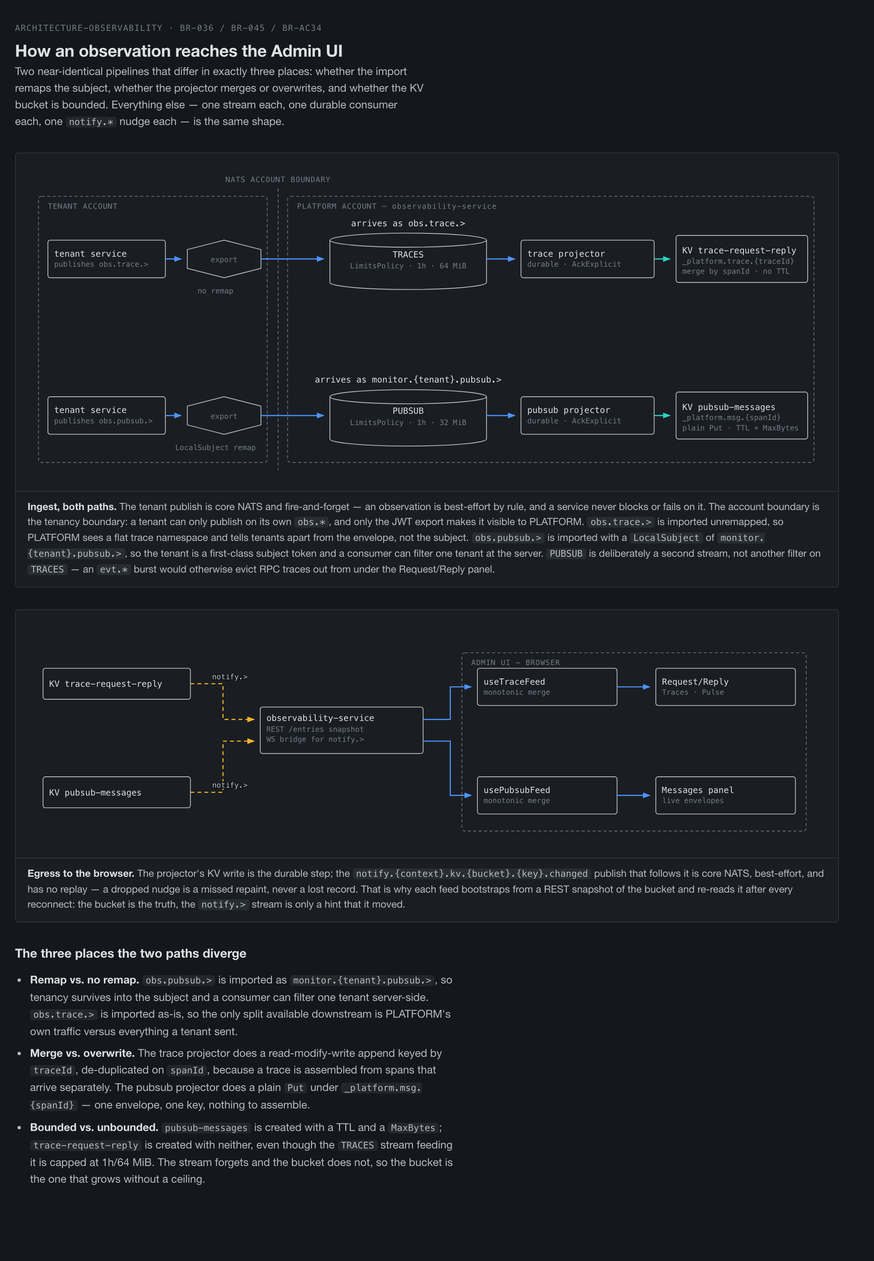
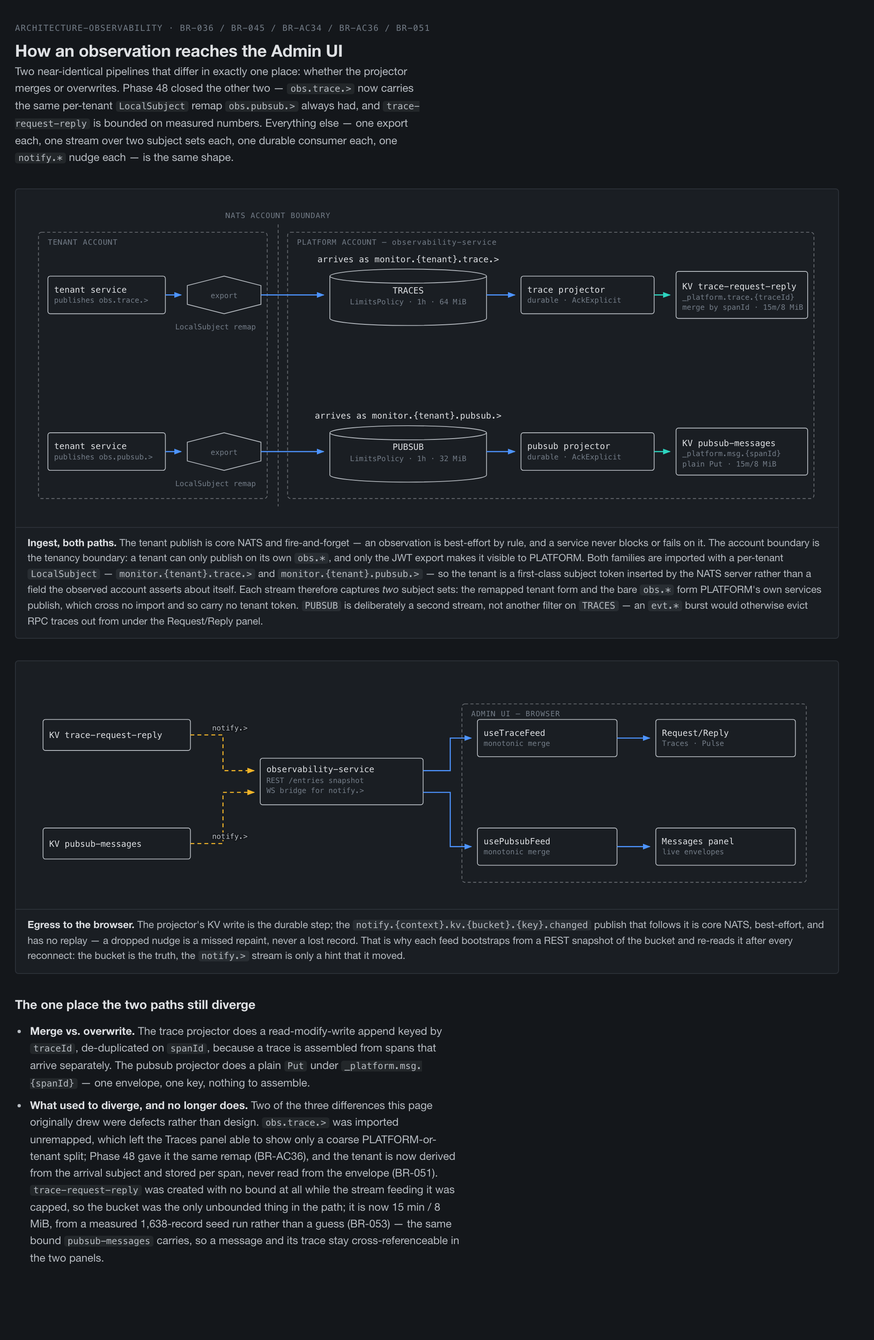
docs(48e): close A1's deferred trace remap and redraw the message path
The observability docs still described the pre-Phase-48 world: obs.trace.>
imported unremapped, provenance recovered from the envelope, and
trace-request-reply unbounded. All three are now false.

- ARCHITECTURE-OBSERVABILITY.md: A1's "deliberately not in scope" becomes
  a resolution note, recording the three things the implementation settled
  that the ADR did not anticipate — per-span attribution (and why BR-052
  was retired), boot-time convergence over a one-off re-provision pass, and
  why a shipped pipeline needed no migration.
- ARCHITECTURE-COMMUNICATIONS.md §6: notes on subject-derived per-span
  attribution, on each stream capturing two subject sets, and on both KV
  buckets being bounded at 15 min / 8 MiB.
- observability-message-path: two of the three drawn divergences are gone;
  both rows share the remap and the bound, leaving merge-vs-overwrite as
  the only real difference. The retired pair is kept as a "what used to
  diverge" bullet rather than deleted.

Also puts two present-tense "has no remap" sentences in the business rules
into the past tense.

diff --git a/demos/01-dictionary/diagrams/observability-message-path.html b/demos/01-dictionary/diagrams/observability-message-path.html
@@ -53,16 +53,16 @@ li b { color: var(--text); font-weight: 600; }
 <div class="wrap">
   <div class="head">
     <div class="head-txt">
-      <span class="eyebrow">ARCHITECTURE-OBSERVABILITY · BR-036 / BR-045 / BR-AC34</span>
+      <span class="eyebrow">ARCHITECTURE-OBSERVABILITY · BR-036 / BR-045 / BR-AC34 / BR-AC36 / BR-051</span>
       <h1>How an observation reaches the Admin UI</h1>
-      <p class="sub">Two near-identical pipelines that differ in exactly three places: whether the import remaps the subject, whether the projector merges or overwrites, and whether the KV bucket is bounded. Everything else — one stream each, one durable consumer each, one <code>notify.*</code> nudge each — is the same shape.</p>
+      <p class="sub">Two near-identical pipelines that differ in exactly one place: whether the projector merges or overwrites. Phase 48 closed the other two — <code>obs.trace.&gt;</code> now carries the same per-tenant <code>LocalSubject</code> remap <code>obs.pubsub.&gt;</code> always had, and <code>trace-request-reply</code> is bounded on measured numbers. Everything else — one export each, one stream over two subject sets each, one durable consumer each, one <code>notify.*</code> nudge each — is the same shape.</p>
     </div>
   </div>
 
   <figure>
     <div class="fig-body">
       <svg viewBox="0 0 1020 412" role="img"
-        aria-label="Two parallel ingest paths on the same column grid. In the upper path a tenant service publishes obs.trace.> inside its own NATS account; a JWT stream export carries it into the PLATFORM account with no LocalSubject remap, so it arrives still named obs.trace.> on the TRACES stream, a LimitsPolicy stream capped at one hour and 64 mebibytes; a single durable AckExplicit consumer, the trace projector, merges each span into the KV bucket trace-request-reply under key _platform.trace.{traceId}, de-duplicating by spanId, with no TTL. In the lower path a tenant service publishes obs.pubsub.>; the same kind of export applies a LocalSubject remap, so it arrives as monitor.{tenant}.pubsub.> on the separate PUBSUB stream, capped at one hour and 32 mebibytes; its durable consumer plainly puts each envelope into the KV bucket pubsub-messages under key _platform.msg.{spanId}, which does carry a TTL and a MaxBytes limit.">
+        aria-label="Two parallel ingest paths on the same column grid. In the upper path a tenant service publishes obs.trace.&gt; inside its own NATS account; a JWT stream export carries it into the PLATFORM account with a per-tenant LocalSubject remap, so it arrives as monitor.{tenant}.trace.&gt; on the TRACES stream, a LimitsPolicy stream capped at one hour and 64 mebibytes that captures both that remapped form and PLATFORM's own bare obs.trace.&gt;; a single durable AckExplicit consumer, the trace projector, merges each span into the KV bucket trace-request-reply under key _platform.trace.{traceId}, de-duplicating by spanId and storing the arrival-derived tenant alongside each span, under a fifteen-minute TTL and an eight-mebibyte MaxBytes. In the lower path a tenant service publishes obs.pubsub.&gt;; the same kind of export applies the same kind of remap, so it arrives as monitor.{tenant}.pubsub.&gt; on the separate PUBSUB stream, capped at one hour and 32 mebibytes; its durable consumer plainly puts each envelope into the KV bucket pubsub-messages under key _platform.msg.{spanId}, under the same fifteen-minute, eight-mebibyte bound.">
         <defs>
           <marker id="a-sync" viewBox="0 0 8 8" refX="7" refY="4" markerWidth="7" markerHeight="7" orient="auto-start-reverse">
             <polygon points="0,1 8,4 0,7" fill="var(--sync)"/>
@@ -89,12 +89,12 @@ li b { color: var(--text); font-weight: 600; }
 
         <path class="n" d="M204 108 L251 96 L298 108 L298 132 L251 144 L204 132 Z"/>
         <text class="lbl2" x="251" y="124" text-anchor="middle">export</text>
-        <text class="lbl2" x="240" y="164" text-anchor="middle">no remap</text>
+        <text class="lbl2" x="240" y="164" text-anchor="middle">LocalSubject remap</text>
 
         <path class="flow" d="M176 120 L196 120" marker-end="url(#a-sync)"/>
         <path class="flow" d="M298 120 L378 120" marker-end="url(#a-sync)"/>
 
-        <text class="lbl" x="486" y="78" text-anchor="middle">arrives as obs.trace.&gt;</text>
+        <text class="lbl" x="486" y="78" text-anchor="middle">arrives as monitor.{tenant}.trace.&gt;</text>
         <ellipse class="n" cx="486" cy="96" rx="100" ry="9"/>
         <path class="n" d="M386 96 L386 150 A100 9 0 0 0 586 150 L586 96"/>
         <text class="lbl" x="486" y="118" text-anchor="middle">TRACES</text>
@@ -111,7 +111,7 @@ li b { color: var(--text); font-weight: 600; }
         <rect class="n" x="828" y="90" width="168" height="60" rx="3"/>
         <text class="lbl" x="836" y="113">KV trace-request-reply</text>
         <text class="lbl2" x="836" y="126">_platform.trace.{traceId}</text>
-        <text class="lbl2" x="836" y="139">merge by spanId · no TTL</text>
+        <text class="lbl2" x="836" y="139">merge by spanId · 15m/8 MiB</text>
 
         <!-- ===== pubsub row ===== -->
         <rect class="n" x="26" y="296" width="150" height="48" rx="3"/>
@@ -142,10 +142,10 @@ li b { color: var(--text); font-weight: 600; }
         <rect class="n" x="828" y="290" width="168" height="60" rx="3"/>
         <text class="lbl" x="836" y="313">KV pubsub-messages</text>
         <text class="lbl2" x="836" y="326">_platform.msg.{spanId}</text>
-        <text class="lbl2" x="836" y="339">plain Put · TTL + MaxBytes</text>
+        <text class="lbl2" x="836" y="339">plain Put · 15m/8 MiB</text>
       </svg>
     </div>
-    <figcaption><b>Ingest, both paths.</b> The tenant publish is core NATS and fire-and-forget — an observation is best-effort by rule, and a service never blocks or fails on it. The account boundary is the tenancy boundary: a tenant can only publish on its own <code>obs.*</code>, and only the JWT export makes it visible to PLATFORM. <code>obs.trace.&gt;</code> is imported unremapped, so PLATFORM sees a flat trace namespace and tells tenants apart from the envelope, not the subject. <code>obs.pubsub.&gt;</code> is imported with a <code>LocalSubject</code> of <code>monitor.{tenant}.pubsub.&gt;</code>, so the tenant is a first-class subject token and a consumer can filter one tenant at the server. <code>PUBSUB</code> is deliberately a second stream, not another filter on <code>TRACES</code> — an <code>evt.*</code> burst would otherwise evict RPC traces out from under the Request/Reply panel.</figcaption>
+    <figcaption><b>Ingest, both paths.</b> The tenant publish is core NATS and fire-and-forget — an observation is best-effort by rule, and a service never blocks or fails on it. The account boundary is the tenancy boundary: a tenant can only publish on its own <code>obs.*</code>, and only the JWT export makes it visible to PLATFORM. Both families are imported with a per-tenant <code>LocalSubject</code> — <code>monitor.{tenant}.trace.&gt;</code> and <code>monitor.{tenant}.pubsub.&gt;</code> — so the tenant is a first-class subject token inserted by the NATS server rather than a field the observed account asserts about itself. Each stream therefore captures <em>two</em> subject sets: the remapped tenant form and the bare <code>obs.*</code> form PLATFORM's own services publish, which cross no import and so carry no tenant token. <code>PUBSUB</code> is deliberately a second stream, not another filter on <code>TRACES</code> — an <code>evt.*</code> burst would otherwise evict RPC traces out from under the Request/Reply panel.</figcaption>
   </figure>
 
   <figure>
@@ -207,11 +207,10 @@ li b { color: var(--text); font-weight: 600; }
   </figure>
 
   <section class="sec">
-    <h2>The three places the two paths diverge</h2>
+    <h2>The one place the two paths still diverge</h2>
     <ul>
-      <li><b>Remap vs. no remap.</b> <code>obs.pubsub.&gt;</code> is imported as <code>monitor.{tenant}.pubsub.&gt;</code>, so tenancy survives into the subject and a consumer can filter one tenant server-side. <code>obs.trace.&gt;</code> is imported as-is, so the only split available downstream is PLATFORM's own traffic versus everything a tenant sent.</li>
       <li><b>Merge vs. overwrite.</b> The trace projector does a read-modify-write append keyed by <code>traceId</code>, de-duplicated on <code>spanId</code>, because a trace is assembled from spans that arrive separately. The pubsub projector does a plain <code>Put</code> under <code>_platform.msg.{spanId}</code> — one envelope, one key, nothing to assemble.</li>
-      <li><b>Bounded vs. unbounded.</b> <code>pubsub-messages</code> is created with a TTL and a <code>MaxBytes</code>; <code>trace-request-reply</code> is created with neither, even though the <code>TRACES</code> stream feeding it is capped at 1h/64 MiB. The stream forgets and the bucket does not, so the bucket is the one that grows without a ceiling.</li>
+      <li><b>What used to diverge, and no longer does.</b> Two of the three differences this page originally drew were defects rather than design. <code>obs.trace.&gt;</code> was imported unremapped, which left the Traces panel able to show only a coarse PLATFORM-or-tenant split; Phase 48 gave it the same remap (BR-AC36), and the tenant is now derived from the arrival subject and stored per span, never read from the envelope (BR-051). <code>trace-request-reply</code> was created with no bound at all while the stream feeding it was capped, so the bucket was the only unbounded thing in the path; it is now 15 min / 8 MiB, from a measured 1,638-record seed run rather than a guess (BR-053) — the same bound <code>pubsub-messages</code> carries, so a message and its trace stay cross-referenceable in the two panels.</li>
     </ul>
   </section>
 </div>

diff --git a/obsidian/V3-Platform/Architecture/Dictionary-POC/ARCHITECTURE-COMMUNICATIONS.md b/obsidian/V3-Platform/Architecture/Dictionary-POC/ARCHITECTURE-COMMUNICATIONS.md
@@ -618,18 +618,33 @@ the same five hops from a tenant service to an Admin UI panel, and the
 diagram below puts them on one column grid so the places they diverge are
 the only things that differ visually.
 
-![Two parallel ingest paths: a tenant service publishes obs.trace.> and obs.pubsub.> inside its own NATS account; JWT stream exports carry both into the PLATFORM account, obs.trace.> unremapped and obs.pubsub.> remapped to monitor.{tenant}.pubsub.>; each lands on its own LimitsPolicy stream (TRACES 1h/64 MiB, PUBSUB 1h/32 MiB), is read by one durable AckExplicit consumer, and is projected into a KV bucket — trace-request-reply merged by spanId with no TTL, pubsub-messages plain-Put with a TTL and MaxBytes. Both buckets emit a best-effort notify subject that observability-service bridges to the Admin UI over WebSocket, alongside the REST snapshot each feed bootstraps from.](images/observability-message-path.png)
+![Two parallel ingest paths: a tenant service publishes obs.trace.> and obs.pubsub.> inside its own NATS account; JWT stream exports carry both into the PLATFORM account, each with a per-tenant LocalSubject remap onto monitor.{tenant}.trace.> and monitor.{tenant}.pubsub.>; each lands on its own LimitsPolicy stream (TRACES 1h/64 MiB, PUBSUB 1h/32 MiB) that captures both the remapped tenant form and the bare obs.* form PLATFORM publishes itself, is read by one durable AckExplicit consumer, and is projected into a KV bucket — trace-request-reply merged by spanId with the tenant stored per span, pubsub-messages plain-Put, both bounded at 15 min / 8 MiB. Both buckets emit a best-effort notify subject that observability-service bridges to the Admin UI over WebSocket, alongside the REST snapshot each feed bootstraps from.](images/observability-message-path.png)
 
 Notes, in the terms this document uses elsewhere:
 
 - **The account boundary is the tenancy boundary, and the subject never
   carries the tenant** (§ 2.3) — except where an *import* deliberately puts
-  it there. `obs.pubsub.>` is imported with a `LocalSubject` of
-  `monitor.{tenant}.pubsub.>` (BR-AC34), which is the one sanctioned way a
+  it there. Both supportive families are imported with a `LocalSubject`
+  remap — `monitor.{tenant}.pubsub.>` (BR-AC34) and, since Phase 48,
+  `monitor.{tenant}.trace.>` (BR-AC36) — which is the one sanctioned way a
   tenant name reaches a subject token: it is minted by the PLATFORM side of
-  the trust chain, not asserted by the publisher. `obs.trace.>` is imported
-  unremapped, so PLATFORM sees a flat trace namespace and recovers
-  provenance from the envelope instead.
+  the trust chain, not asserted by the publisher. That asymmetry is worth
+  remembering as a *former* state, because the flat trace namespace it left
+  behind is exactly what made the Traces panel's account gutter unable to
+  say more than PLATFORM-or-tenant.
+- **A span's tenant is read from the subject it arrived on, never from its
+  payload** (BR-051), and is stored per span rather than per trace — an
+  ordinary chain crosses the boundary (`api.{ctx}.organizations.…` inside
+  the tenant, `rpc.{ctx}.refdata.…` answered inside PLATFORM), so a
+  trace-level tenant would have to label one of its own spans falsely. The
+  envelope's `Requester` field is the thing not to reach for here: it is
+  self-declared by the account under observation, where the subject token is
+  inserted by the server.
+- **Each stream captures two subject sets, not one.** `TRACES` filters
+  `obs.trace.>` *and* `monitor.*.trace.>`, `PUBSUB` the same pair for
+  pubsub. The remapped form is every tenant's traffic; the bare form is
+  PLATFORM's own services, which cross no import and so carry no tenant
+  token. Capturing only one makes the stream blind to half the estate.
 - **`monitor.*` is a PLATFORM-local family, not a publishable one.** No
   tenant can publish on it and no service subscribes to it from inside a
   tenant account; it exists only as the local name an import lands under.
@@ -641,6 +656,12 @@ Notes, in the terms this document uses elsewhere:
 - **`PUBSUB` is a second stream, not another filter on `TRACES`** (ADR-047
   A5). Sharing one stream would let an `evt.*` burst evict RPC traces out
   from under the Request/Reply panel.
+- **Both KV buckets are bounded at 15 min / 8 MiB** (BR-047, BR-053). A
+  bucket outliving the stream that fills it is the failure mode here: the
+  stream forgets on its cap and the bucket would not, and both panels
+  bootstrap by fetching every entry, so bucket size is a page-load cost
+  before it is a disk cost. The numbers are measured, not chosen — see
+  BR-053.
 - **The `notify.*` hop out of each KV bucket is core NATS with no replay**,
   matching § 2.1's description of the family. Durability lives in the bucket,
   not the nudge — which is why each Admin UI feed bootstraps from a REST

diff --git a/obsidian/V3-Platform/Architecture/Dictionary-POC/ARCHITECTURE-OBSERVABILITY.md b/obsidian/V3-Platform/Architecture/Dictionary-POC/ARCHITECTURE-OBSERVABILITY.md
@@ -13,7 +13,7 @@ keeps only the ADR as a historical record.
 
 ## The message path, end to end
 
-![Two parallel ingest paths: a tenant service publishes obs.trace.> and obs.pubsub.> inside its own NATS account; JWT stream exports carry both into the PLATFORM account, obs.trace.> unremapped and obs.pubsub.> remapped to monitor.{tenant}.pubsub.>; each lands on its own LimitsPolicy stream (TRACES 1h/64 MiB, PUBSUB 1h/32 MiB), is read by one durable AckExplicit consumer, and is projected into a KV bucket — trace-request-reply merged by spanId with no TTL, pubsub-messages plain-Put with a TTL and MaxBytes. Both buckets emit a best-effort notify subject that observability-service bridges to the Admin UI over WebSocket, alongside the REST snapshot each feed bootstraps from.](images/observability-message-path.png)
+![Two parallel ingest paths: a tenant service publishes obs.trace.> and obs.pubsub.> inside its own NATS account; JWT stream exports carry both into the PLATFORM account, each with a per-tenant LocalSubject remap onto monitor.{tenant}.trace.> and monitor.{tenant}.pubsub.>; each lands on its own LimitsPolicy stream (TRACES 1h/64 MiB, PUBSUB 1h/32 MiB) that captures both the remapped tenant form and the bare obs.* form PLATFORM publishes itself, is read by one durable AckExplicit consumer, and is projected into a KV bucket — trace-request-reply merged by spanId with the tenant stored per span, pubsub-messages plain-Put, both bounded at 15 min / 8 MiB. Both buckets emit a best-effort notify subject that observability-service bridges to the Admin UI over WebSocket, alongside the REST snapshot each feed bootstraps from.](images/observability-message-path.png)
 
 Editable source: [observability-message-path.html](../../../../demos/01-dictionary/diagrams/observability-message-path.html)
 — hand-authored inline SVG rather than a Draw.io workbook page, so
@@ -265,9 +265,30 @@ token is inserted **by the NATS server**, so it is unspoofable, unlike an
 envelope field a tenant fills in itself. The Messages panel reads the tenant
 from that token. BR-AC34 and BR-048 carry this.
 
-**Deliberately not in scope:** applying the same remap to `obs.trace.>`,
-which would fix the existing Traces panel's coarse gutter too. That is a
-change to a shipped pipeline and belongs in its own phase.
+**Closed 2026-08-26 (Phase 48).** The deferred half — applying the same
+remap to `obs.trace.>` — is done, and it is the whole point of that phase:
+`addPlatformTraceImport` now carries `monitor.{tenant}.trace.>` (BR-AC36),
+`TRACES` captures both that and the bare `obs.trace.>` PLATFORM publishes
+itself, and `TraceWaterfall.vue`'s gutter names the real account instead of
+the coarse PLATFORM/TENANT split this item predicted it would be stuck with
+(BR-051, BR-054). Three things the implementation settled that this ADR did
+not anticipate:
+
+- **Attribution is per span, not per trace.** An ordinary cross-account
+  chain has spans on both sides of the boundary, so a single tenant on the
+  record would have to label one of its own spans falsely — on the one panel
+  whose entire value is trustworthy provenance. BR-052, drafted as a
+  first-writer-wins tie-break, was retired for the same reason: the
+  disagreement it arbitrated is the normal case, not a conflict.
+- **The remap must be converged, not just minted.** An account provisioned
+  before the change keeps the old import until something rewrites it, so
+  `accounts-service` now re-converges PLATFORM's imports for every known
+  tenant on every start (BR-AC37) rather than relying on a one-off
+  re-provision pass someone has to remember.
+- **A shipped pipeline needed no migration.** `TRACES` is `LimitsPolicy`
+  capped at 1 h, so the old subject shape ages out on its own; records
+  written before the change decode through an explicit legacy path and
+  render as `unattributed` rather than as a guessed tenant.
 
 ### A2 — The instrumented-call-site list was incomplete, and one service had no rule
 
@@ -430,7 +451,12 @@ slice holds.
        envelope is 454–592 B, not the ~2 KiB A5 assumed, and the stream
        must capture `monitor.*.pubsub.>` as well as `obs.pubsub.>` or it
        sees no tenant traffic at all. 43c is what puts any of it on screen.
-5. [x] Panel description moved into
+5. [x] A1's deferred `obs.trace.>` remap — **closed 2026-08-26 in Phase
+       48**; see the resolution note under A1 above for what it changed and
+       what it did not anticipate. `trace-request-reply`, unbounded at the
+       time this ADR was written, was bounded in the same phase on measured
+       numbers (BR-053).
+6. [x] Panel description moved into
        [ARCHITECTURE-ADMIN.md](ARCHITECTURE-ADMIN.md) §4.9 alongside its
        siblings (2026-08-25, with 43c); this ADR remains behind as the
        historical decision record. **43c landed 2026-08-25** —

diff --git a/demos/01-dictionary/BUSINESS_RULES-ACCOUNTS.md b/demos/01-dictionary/BUSINESS_RULES-ACCOUNTS.md
@@ -1209,7 +1209,7 @@ covered by its own allowlist test since they live in separate packages:
 
 `tenantExports()` (`accounts/provisioner.go:315`) gains a second entry alongside the existing `obs.trace.>` export: `{Subject: jwt.Subject("obs.pubsub.>"), Type: jwt.Stream}` — no `AllowTrace`, no `ResponseType`, the same export shape as `obs.trace.>`.
 
-**PLATFORM's import side is where this rule was corrected** (ADR-047 A1). As originally drafted it mirrored `addPlatformTraceImport` exactly, on the reasoning that "a Stream export needs no per-tenant `LocalSubject` remap: the importing account boundary itself … is what disambiguates which tenant a given imported stream message came from." **That reasoning is wrong, and the rule no longer says it.** The account boundary disambiguates *delivery*, not *provenance*: once N tenants' `obs.pubsub.>` exports are imported onto one identical local subject, a PLATFORM subscriber receives messages with nothing indicating which account they came from. This is exactly why `$SRV.>` and `$JS.API.*` carry `monitorLocalSubjectTmpl` / `jsAPILocalSubjectTmpl` remaps (BR-AC31/BR-AC32), and why the existing `obs.trace.>` import — which has no remap — leaves `TraceWaterfall.vue`'s account gutter able to show only a coarse PLATFORM/TENANT split.
+**PLATFORM's import side is where this rule was corrected** (ADR-047 A1). As originally drafted it mirrored `addPlatformTraceImport` exactly, on the reasoning that "a Stream export needs no per-tenant `LocalSubject` remap: the importing account boundary itself … is what disambiguates which tenant a given imported stream message came from." **That reasoning is wrong, and the rule no longer says it.** The account boundary disambiguates *delivery*, not *provenance*: once N tenants' `obs.pubsub.>` exports are imported onto one identical local subject, a PLATFORM subscriber receives messages with nothing indicating which account they came from. This is exactly why `$SRV.>` and `$JS.API.*` carry `monitorLocalSubjectTmpl` / `jsAPILocalSubjectTmpl` remaps (BR-AC31/BR-AC32), and why the `obs.trace.>` import, which had no remap when this was written, left `TraceWaterfall.vue`'s account gutter able to show only a coarse PLATFORM/TENANT split — the gap BR-AC36 closed in Phase 48.
 
 So: PLATFORM gains a new `addPlatformPubsubImport` mirroring `addPlatformTraceImport` (`accounts/provisioner.go:463`) in mechanism — same idempotency-by-`(Account, Subject)` scan over `claims.Imports` before adding, same re-sign-and-push via `$SYS.REQ.CLAIMS.UPDATE`, called from `CreateAccount` alongside it and gated the same way on `platformPublicKey != ""` — but adding `jwt.Import{Account: tenantAccountPub, Subject: "obs.pubsub.>", Type: jwt.Stream, LocalSubject: jwt.RenamingSubject(fmt.Sprintf(pubsubLocalSubjectTmpl, tenantName)), AllowTrace: true}`, with `pubsubLocalSubjectTmpl = "monitor.%s.pubsub.>"` declared alongside its siblings. The tenant token is inserted **by the NATS server**, so it is unspoofable — unlike an account field a tenant would fill in itself — and it is what BR-048's Messages panel reads to name the originating tenant.
 

diff --git a/demos/01-dictionary/BUSINESS_RULES-SHIPPING.md b/demos/01-dictionary/BUSINESS_RULES-SHIPPING.md
@@ -861,7 +861,7 @@ A new, sibling `obs.pubsub.>` consumer in `observability-service`, mirroring `tr
 - **Dedup is mechanical.** BR-045's emit sets `Nats-Msg-Id` to the envelope's `spanId`; this stream sets its `Duplicates` window **explicitly** rather than relying on the 2-minute default. Redelivery of the same envelope must not produce a duplicate visible entry. (Phase 101 covers the same ground for domain publishes — the two land on one convention.)
 - **Ingestion is best-effort, and the UI must not imply otherwise** (ADR-047 A7). BR-045's emit is a core-NATS fire-and-forget publish, which is lossy under a slow consumer or a reconnect. "Every published envelope becomes visible" is the intent, not a guarantee; a panel that silently drops entries under load while implying completeness would be worse than one that admits the bound.
 
-**Two subject sets, not one — found at implementation time and worth stating.** The stream captures **both** `obs.pubsub.>` and `monitor.*.pubsub.>`. PLATFORM's own services publish on the former directly; every *tenant's* export arrives remapped onto the latter by BR-AC34's `LocalSubject`. Capturing only `obs.pubsub.>` — the obvious reading, and what `tracestore` does for `obs.trace.>`, whose import carries no remap — would make the stream blind to exactly the cross-tenant traffic Phase 43 exists for.
+**Two subject sets, not one — found at implementation time and worth stating.** The stream captures **both** `obs.pubsub.>` and `monitor.*.pubsub.>`. PLATFORM's own services publish on the former directly; every *tenant's* export arrives remapped onto the latter by BR-AC34's `LocalSubject`. Capturing only `obs.pubsub.>` — the obvious reading, and what `tracestore` did for `obs.trace.>` before BR-AC36 gave that import a remap too — would make the stream blind to exactly the cross-tenant traffic Phase 43 exists for.
 
 **Resolved: a KV bucket, not stream-only.** The open question above was whether ingestion needs a bucket the way `trace-request-reply` does. It does, but **not for merging** — a standalone envelope has nothing to merge, so a write is a plain `Put` rather than `tracestore`'s read-modify-write append. It needs one because the bucket *is* the Admin UI's read path: every observability panel bootstrap-fetches a KV bucket and live-subscribes to `notify._platform.kv.{bucket}.>` (`useTraceFeed.js`), and a browser credential is never granted `obs.pubsub.>` (BR-AC34). The bucket is a **bounded visible window** over the stream, so its caps are deliberately tighter than the stream's (15 min / 8 MiB vs. 1 h / 32 MiB) — 43c fetches every entry on load, making bucket size a page-load cost, not just disk.
 

diff --git a/.claude/plans/Main-POC-Plan.md b/.claude/plans/Main-POC-Plan.md
@@ -1569,10 +1569,26 @@ Two things settled in the writing that the drafts above had left open:
       harness's `-settle` default went 10s → 30s: the projector was
       measured taking 10–13s to store a three-span chain, so the old
       default intermittently reported a late trace as a missing one.
-- [ ] **48e** — docs: `ARCHITECTURE-OBSERVABILITY.md` (A1's deferred item
+- [x] **48e** — docs: `ARCHITECTURE-OBSERVABILITY.md` (A1's deferred item
       marked closed), `ARCHITECTURE-COMMUNICATIONS.md` §6 notes and the
       `observability-message-path` diagram — the trace row's `no remap`
       annotation becomes the remap, which is the whole point of the phase.
+      **DONE 2026-08-26.** A1 now carries a resolution note naming the three
+      things the implementation settled that the ADR did not anticipate
+      (per-span attribution and BR-052's retirement; convergence rather than
+      one-off re-provisioning, BR-AC37; no migration needed because `TRACES`
+      is `LimitsPolicy`), plus a new action item 5. §6 gained notes on
+      subject-derived per-span attribution, on each stream carrying two
+      subject sets, and on both buckets being bounded at 15 min / 8 MiB.
+      The diagram lost two of its three divergences: both rows now draw the
+      same `LocalSubject remap` and the same bucket bound, so the only
+      difference left is merge-vs-overwrite, and the retired pair is
+      recorded in a "what used to diverge" bullet rather than deleted.
+      Re-exported at 1024px with `--clip=".wrap"`; `audit-svg-layout.mjs`
+      clean. Two stale sentences in `BUSINESS_RULES-ACCOUNTS.md` and
+      `BUSINESS_RULES-SHIPPING.md` that asserted the trace import "has no
+      remap" in the present tense were put into the past tense — outside the
+      sub-phase's literal scope, but they were wrong as written.
 
 #### Design decisions — bucket bounding (added 2026-08-26 at your request)
 
